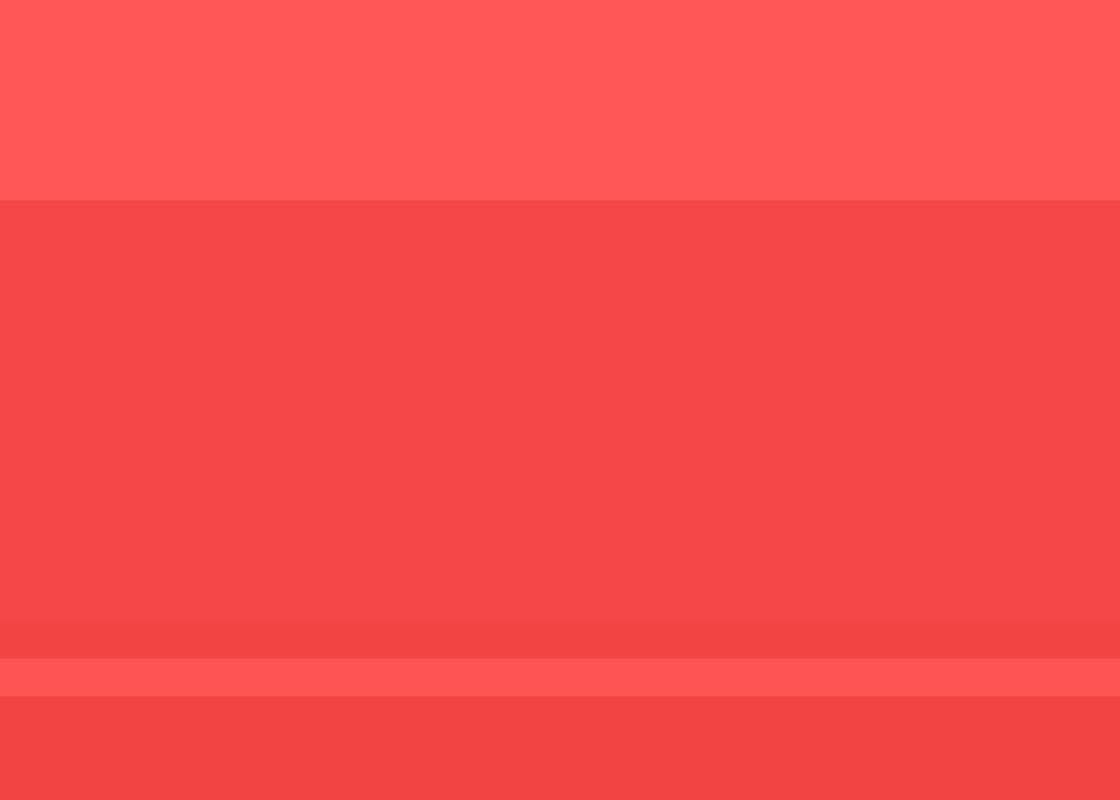
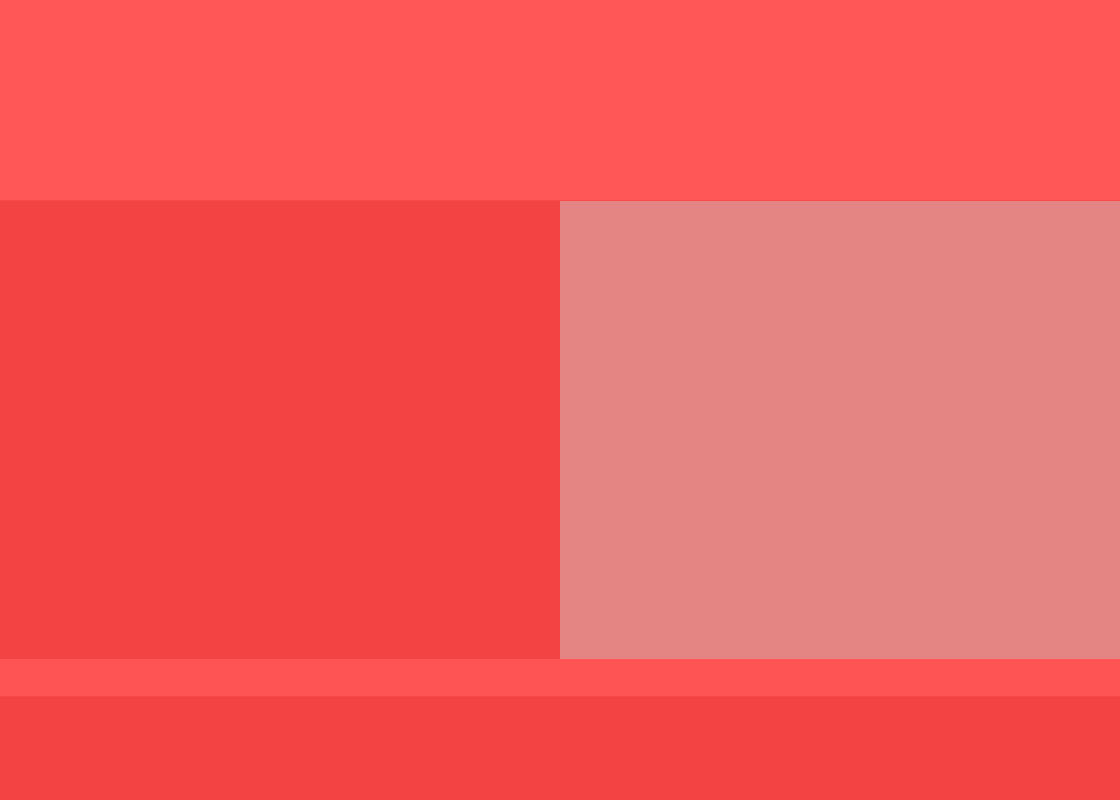
New Project Page added and fixed screen alignment

Changed region(s): [[0.5, 0.25, 1.0, 0.8438]]

diff --git a/index.html b/index.html
@@ -8,26 +8,33 @@
 <link href="https://fonts.googleapis.com/css?family=Lato|Oswald" rel="stylesheet">
 <link href="https://maxcdn.bootstrapcdn.com/font-awesome/4.7.0/css/font-awesome.min.css" rel="stylesheet">
 <!-- Bootstrap -->
-<link href="css/bootstrap.css" rel="stylesheet" type="text/css"> \<!-- Social Share Kit CSS -->
+<link href="css/bootstrap.css" rel="stylesheet" type="text/css"> <!-- Social Share Kit CSS -->
 <link rel="stylesheet" href="css/social-share-kit.css" type="text/css">
 <link rel="stylesheet" href="css/arrow.less" />
 <link rel="stylesheet" href="css/fonts.less" type="text/css">
 <link rel="stylesheet" href="css/icons.less" type="text/css">
-<!--
-<link href="https://opensource.keycdn.com/fontawesome/4.7.0/font-awesome.min.css" rel="stylesheet" type="text/css">-->
 <link href="css/style.css" rel="stylesheet" type="text/css">
 </head>
 <body>
-	 <div class="arrow bounce text-center">
-  <a class="fa fa-arrow-down fa-2x" href="#abt"></a>
-</div>
 <section class="header">
    <div class="container">
-  
-   <img class="logo" src="images/logo.png" />
-		<p class="name">TEXT</p>
-		<p class="title">TEXT</p>
+  <div class="arrow bounce text-center">
+ <a class="fa fa-arrow-down fa-2x" href="#abt"></a>
+</div>
+  <img class="logo" src="images/logo.png" />
+		<p class="name">RAVI KARTHICK</p>
+		<p class="title">USER INTERFACE DESINGER / DEVELOPER</p>
 	</div>
+	<div class="container">
+	  <div class="row description">
+		<div class="col-md-6">
+			<p>DESIGN</p>
+		</div>
+		<div class="col-md-6">
+			<p> CODE </p>
+		</div>
+	  </div>
+  	</div>
 
 </section>
 
@@ -61,7 +68,7 @@
 		<div class="col-xs-8 col-sm-6 col-md-8 col-lg-6">
 			<h2>About Me</h2>
 			 <p class="about">
-			 	I am a User Interface desinger and developer that exceeds expectations at consolidating the capacities with the delightful. I am an expert with three years of involvement in the field of Information innovation and User Interface advancement.
+			 	I am a User Interface designer and developer that exceeds expectations at consolidating the capacities with the delightful. I am an expert with three years of involvement in the field of Information innovation and User Interface advancement.
 			 </p>
 		</div>
 	</div>
@@ -94,8 +101,11 @@
 </section>
 <!-- Brand and toggle get grouped for better mobile display -->
 <!-- jQuery (necessary for Bootstrap's JavaScript plugins) --> 
+<script src="//ajax.googleapis.com/ajax/libs/jquery/1.11.0/jquery.min.js"></script>
 <script src="../js/jquery-1.11.3.min.js"></script>
 <!-- Include all compiled plugins (below), or include individual files as needed --> 
-<script src="../js/bootstrap.js"></script>
+<script src="js/bootstrap.js"></script>
+<script src="js/npm.js"></script>
+
 </body>
 </html>

diff --git a/portfolio.html b/portfolio.html
@@ -8,7 +8,7 @@
 <link href="https://fonts.googleapis.com/css?family=Lato|Oswald" rel="stylesheet">
 <link href="https://maxcdn.bootstrapcdn.com/font-awesome/4.7.0/css/font-awesome.min.css" rel="stylesheet">
 <!-- Bootstrap -->
-<link href="css/bootstrap.css" rel="stylesheet" type="text/css"> \<!-- Social Share Kit CSS -->
+<link href="css/bootstrap.css" rel="stylesheet" type="text/css"> <!-- Social Share Kit CSS -->
 <link rel="stylesheet" href="css/social-share-kit.css" type="text/css">
 <link rel="stylesheet" href="css/arrow.less" />
 <link rel="stylesheet" href="css/fonts.less" type="text/css">
@@ -52,7 +52,7 @@
 	   <div class="col-lg-4 col-md-4 col-sm-4">
 			<a class="img-thumbnail" href="#">
 			 <img src="images/rcw/img1.jpg" class="img-responsive"/>
-			 <button class="search"><i class="fa fa-search ">View Details</i></button>
+			 <button class="search"><a href="portfolio_web_1.html"><i class="fa fa-search ">View Details</i></a></button>
 			 </a>
 		  
 	   </div>

diff --git a/css/style.css b/css/style.css
@@ -22,6 +22,9 @@ p{
 	color:#fff;
 	text-align: center;
 }
+.description{
+	font-size:3em;
+}
 .title{
 	color:#fff;
 	font-weight: 300;

diff --git a/css/arrow.less b/css/arrow.less
@@ -1,6 +1,3 @@
-
-
-
 body { background: @bg;}
 a { color: #000; text-decoration: none; }
 
